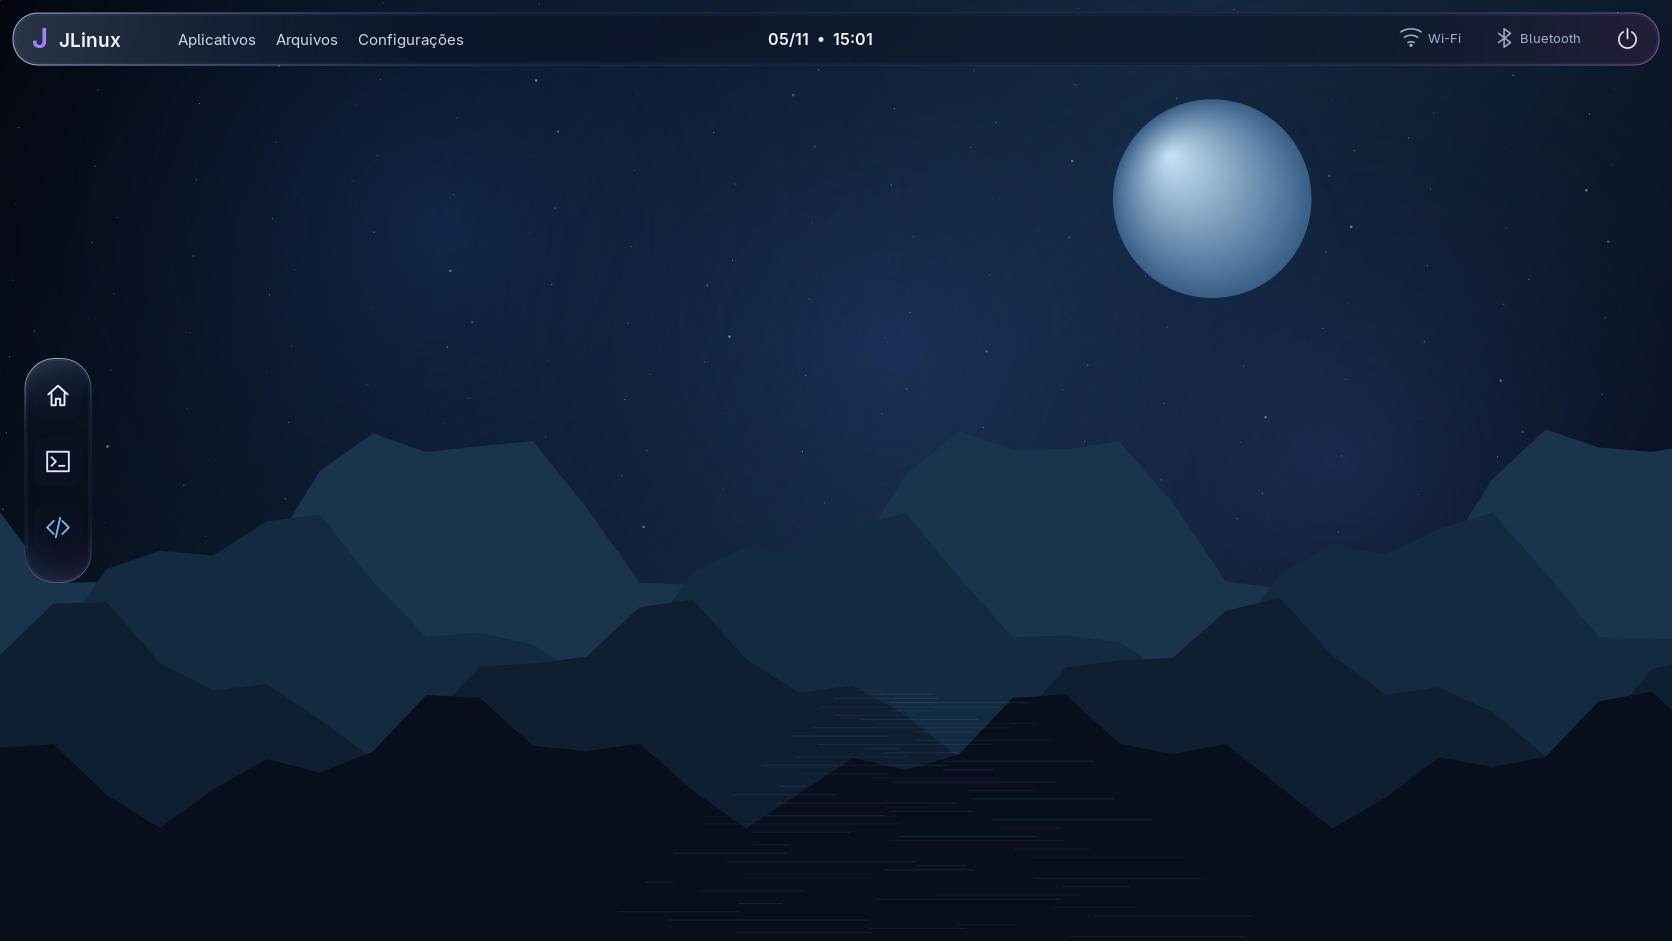
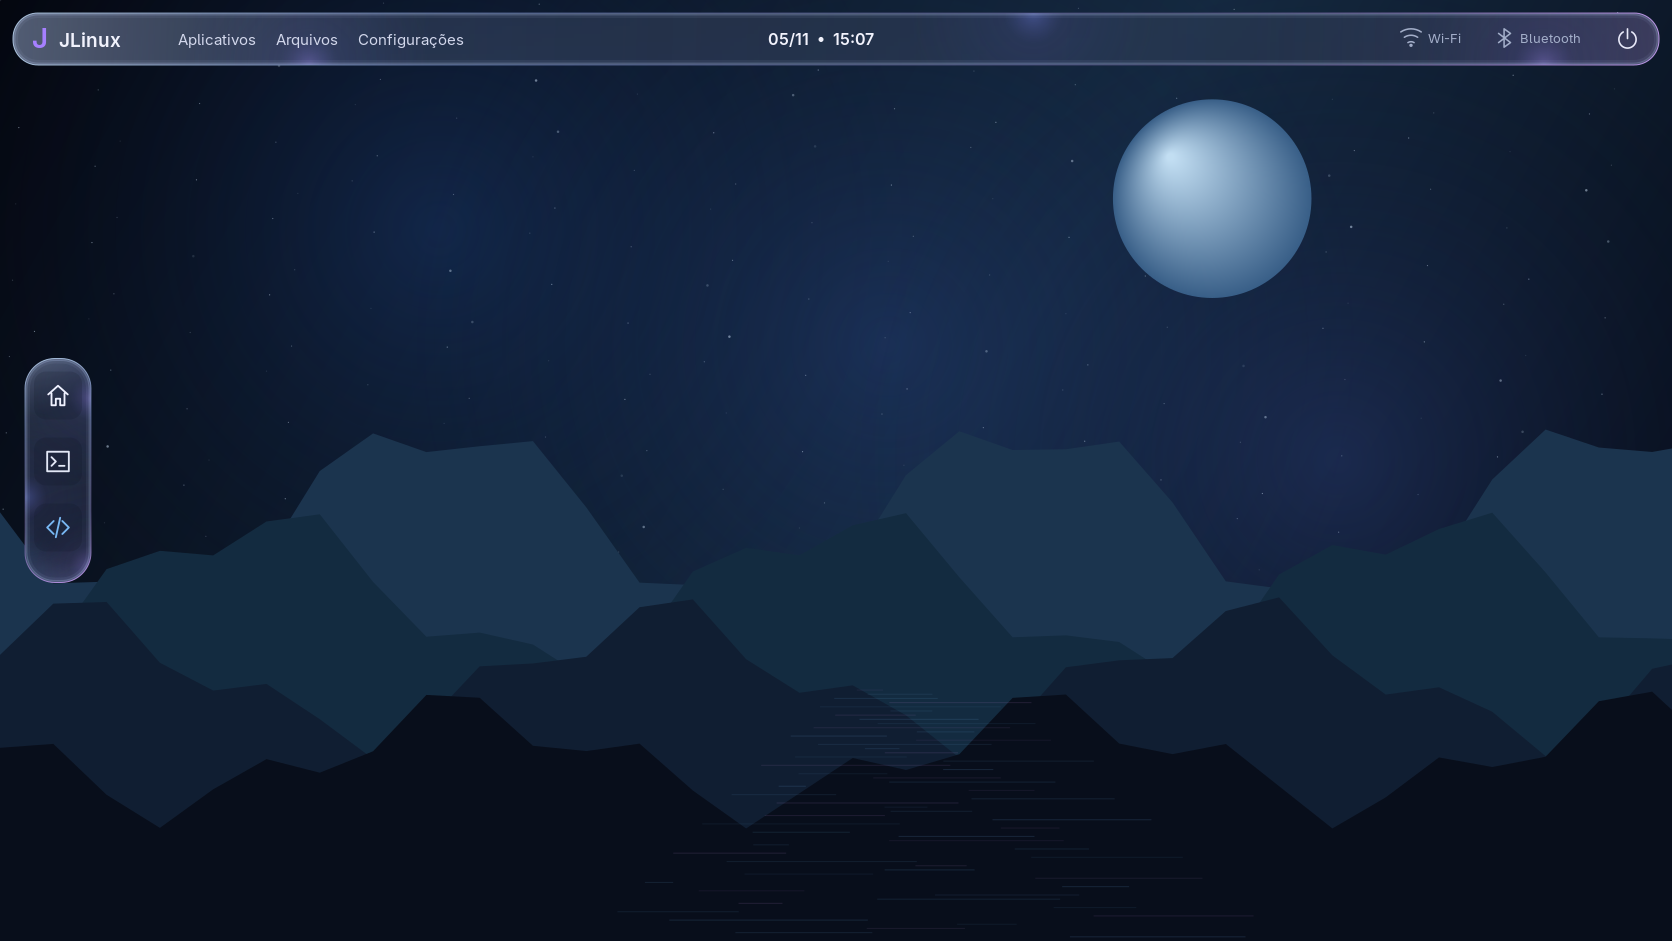
fix: brighten glass panels and emphasize localized reflections

Changed region(s): [[0.0, 0.0, 0.9952, 0.0925], [0.0, 0.3698, 0.0622, 0.6164]]

diff --git a/src/effects/glass.c b/src/effects/glass.c
@@ -17,27 +17,45 @@ void jlinux_glass_paint(cairo_t *cr, struct ui_rect rect, double radius,
         cairo_paint(cr); cairo_restore(cr);
     }
     if (effects.tint) {
-        cairo_set_source_rgba(cr, .018, .028, .055, .32); cairo_paint(cr);
+        /* A cool translucent veil keeps glass readable even over a dark wallpaper. */
+        cairo_set_source_rgba(cr, .34, .39, .49, .24); cairo_paint(cr);
     }
     if (effects.reflection) {
         cairo_pattern_t *shine = cairo_pattern_create_linear(rect.x, rect.y, rect.x + rect.width, rect.y + rect.height);
-        cairo_pattern_add_color_stop_rgba(shine, 0, .66, .81, 1, .23);
-        cairo_pattern_add_color_stop_rgba(shine, .25, .34, .48, .77, .035);
-        cairo_pattern_add_color_stop_rgba(shine, .75, .28, .19, .42, .025);
-        cairo_pattern_add_color_stop_rgba(shine, 1, .66, .43, .8, .14);
+        cairo_pattern_add_color_stop_rgba(shine, 0, .77, .85, 1, .34);
+        cairo_pattern_add_color_stop_rgba(shine, .25, .45, .53, .69, .10);
+        cairo_pattern_add_color_stop_rgba(shine, .75, .23, .21, .34, .035);
+        cairo_pattern_add_color_stop_rgba(shine, 1, .66, .51, .81, .22);
         cairo_set_source(cr, shine); cairo_paint(cr); cairo_pattern_destroy(shine);
+        /* Local light catches the bevel; it is not an animated reflection. */
+        const double positions[] = {.18, .62, .93};
+        for (int i = 0; i < 3; i++) {
+            double x = rect.x + rect.width * positions[i];
+            double y = i == 1 ? rect.y : rect.y + rect.height;
+            double spread = rect.height > rect.width ? 90 : 125;
+            if (rect.height > rect.width) { x = i == 1 ? rect.x : rect.x + rect.width; y = rect.y + rect.height * positions[i]; }
+            cairo_pattern_t *light = cairo_pattern_create_radial(x, y, 0, x, y, spread);
+            cairo_pattern_add_color_stop_rgba(light, 0, i == 1 ? .48 : .64, .54, 1, .35);
+            cairo_pattern_add_color_stop_rgba(light, .24, .32, .32, .7, .10);
+            cairo_pattern_add_color_stop_rgba(light, 1, .2, .25, .5, 0);
+            cairo_set_source(cr, light); cairo_paint(cr); cairo_pattern_destroy(light);
+        }
+        rounded(cr, rect, radius); cairo_set_source_rgba(cr, .74, .81, 1, .07);
+        cairo_set_line_width(cr, 10); cairo_stroke(cr);
+        rounded(cr, rect, radius); cairo_set_source_rgba(cr, .81, .87, 1, .12);
+        cairo_set_line_width(cr, 4); cairo_stroke(cr);
     }
     cairo_restore(cr);
     if (effects.reflection) {
         rounded(cr, rect, radius);
         cairo_pattern_t *edge = cairo_pattern_create_linear(rect.x, rect.y, rect.x + rect.width, rect.y + rect.height);
         cairo_pattern_add_color_stop_rgba(edge, 0, .78, .89, 1, .8);
-        cairo_pattern_add_color_stop_rgba(edge, .3, .39, .56, .8, .25);
-        cairo_pattern_add_color_stop_rgba(edge, .7, .32, .25, .5, .18);
-        cairo_pattern_add_color_stop_rgba(edge, 1, .73, .49, .83, .65);
+        cairo_pattern_add_color_stop_rgba(edge, .3, .55, .64, .9, .48);
+        cairo_pattern_add_color_stop_rgba(edge, .7, .53, .43, .72, .35);
+        cairo_pattern_add_color_stop_rgba(edge, 1, .82, .65, 1, .86);
         cairo_set_source(cr, edge); cairo_set_line_width(cr, 1); cairo_stroke(cr);
         struct ui_rect inner = {rect.x + 2, rect.y + 2, rect.width - 4, rect.height - 4};
-        rounded(cr, inner, radius - 2); cairo_set_source_rgba(cr, .66, .78, 1, .09);
+        rounded(cr, inner, radius - 2); cairo_set_source_rgba(cr, .75, .83, 1, .18);
         cairo_set_line_width(cr, 1); cairo_stroke(cr); cairo_pattern_destroy(edge);
     }
 }

diff --git a/src/toolkit/painter.c b/src/toolkit/painter.c
@@ -62,7 +62,7 @@ void ui_icon(cairo_t *cr, enum ui_icon icon, double x, double y, double size, un
 }
 void ui_button(cairo_t *cr, struct ui_rect rect, enum ui_icon icon, bool hovered, unsigned int accent) {
     round_rect(cr, rect, 12);
-    color(cr, hovered ? 0x26335a : 0x141d32, hovered ? .65 : .24); cairo_fill(cr);
+    color(cr, hovered ? 0x647392 : 0x0c101b, hovered ? .38 : .16); cairo_fill(cr);
     ui_icon(cr, icon, rect.x + (rect.width - 26) / 2, rect.y + (rect.height - 26) / 2, 26, accent);
 }
 

diff --git a/docs/validation.md b/docs/validation.md
@@ -71,3 +71,7 @@ O backend do toolkit ainda rasteriza buffers em CPU, com apresentação pelo com
 Seis testes passaram em build-native (release) e build-native-asan (address,undefined), sem supressões: ciclo de compositor/shell/sessão, terminal/entrada, blur ARGB32 e oito combinações independentes de blur/tint/reflection. Prévia nativa inspecionada em docs/design/native-glass-preview.png. Blur usa wallpaper reduzido, não conteúdo de janelas; não valida fidelidade às referências ou posicionamento em múltiplos monitores.
 
 Medição exploratória única no ambiente local: execução completa de `jlinux-shell --preview /tmp/jlinux-cost.png`, via `time.monotonic` e `resource.getrusage(RUSAGE_CHILDREN)`: 0,335 s e pico RSS 27.836 KiB. Inclui inicialização, fontes, rasterização e escrita PNG; não é tempo de quadro, benchmark comparável ou medição de GPU/energia. Cache de fundo 1600×900 usa imagem 400×225 ARGB32 (360.000 bytes, além de scratch temporário durante blur). Custos sustentados da sessão e adaptação continuam pendentes.
+
+### Ajuste de contraste do Glass — fix/glass-contrast
+
+Seis testes locais passaram novamente em release e ASan/UBSan após alterar tonalização, reflexos estáticos e opacidade dos botões. As oito combinações dos controles continuam distintas e válidas. Prévia nativa atualizada e inspecionada; wallpaper preservado. Não houve benchmark de GPU/energia nem confirmação de aprovação pelo usuário.

diff --git a/TASKS.md b/TASKS.md
@@ -113,3 +113,9 @@ Próxima entrega visual: protótipo que reproduza fielmente composição, materi
 - **EFFECT-01 · parcial:** painel e dock amostram wallpaper com box blur em cache reduzido, tonalização e reflexos estáticos. Três controles independentes por ambiente; sem recarga ao vivo. Não desfoca janelas, não implementa refração/sombra difusa nem GPU Glass.
 - **DESIGN-01 · em implementação:** prévia nativa em docs/design/native-glass-preview.png; wallpaper procedural provisório para tornar a amostragem visível. Continua diferente das fotos escolhidas; não representa aprovação do usuário.
 - **Validação local:** seis testes release e ASan/UBSan passaram, incluindo impulso/constância do blur e oito combinações dos controles. Prévia inspecionada; não é captura DRM nem benchmark de GPU/energia.
+
+## Ajuste visual de dock e barra — fix/glass-contrast
+
+- Tonalização azul-acinzentada mais clara, reflexos localizados azuis/violetas, borda interna iluminada e botões menos opacos para tornar o material perceptível sobre fundo escuro.
+- Wallpaper preservado. Escopo desta iteração: material do dock/barra; composição completa e ícones das referências continuam pendentes. Não declarar reprodução exata ou aprovação visual.
+- Seis testes locais passaram em release e ASan/UBSan; prévia nativa atualizada. Sem medição de GPU/energia nesta alteração.

diff --git a/docs/visual-style.md b/docs/visual-style.md
@@ -37,3 +37,7 @@ No hardware com Radeon integrada, medir largura de banda, memória, tempo de qua
 O usuário definiu dock vertical à esquerda, barra superior com Wi-Fi/Bluetooth e menu Suspender/Reiniciar/Desligar, visual Glass e detalhes predominantes em roxo/rosa. A correção mais recente de posição é **à esquerda**.
 
 A [imagem V1](design/README.md) é um estudo visual gerado para avaliação pelo celular via GitHub. Não é screenshot do desktop atual nem visual aprovado. Próxima implementação deve considerar o feedback do usuário antes de reproduzir a composição nativamente.
+
+## Ajuste solicitado de material do dock e barra
+
+O usuário pediu concentrar a iteração no dock e na barra superior, deixando o wallpaper em segundo plano. O material inicial agora usa tonalização azul-acinzentada mais clara, reflexos estáticos azuis/violetas localizados e iluminação interna do contorno. Botões deixam mais material visível. A referência continua sendo a foto do usuário; este ajuste não significa fidelidade exata ou aprovação. Blur segue limitado ao wallpaper, conforme visual-pipeline.md.
